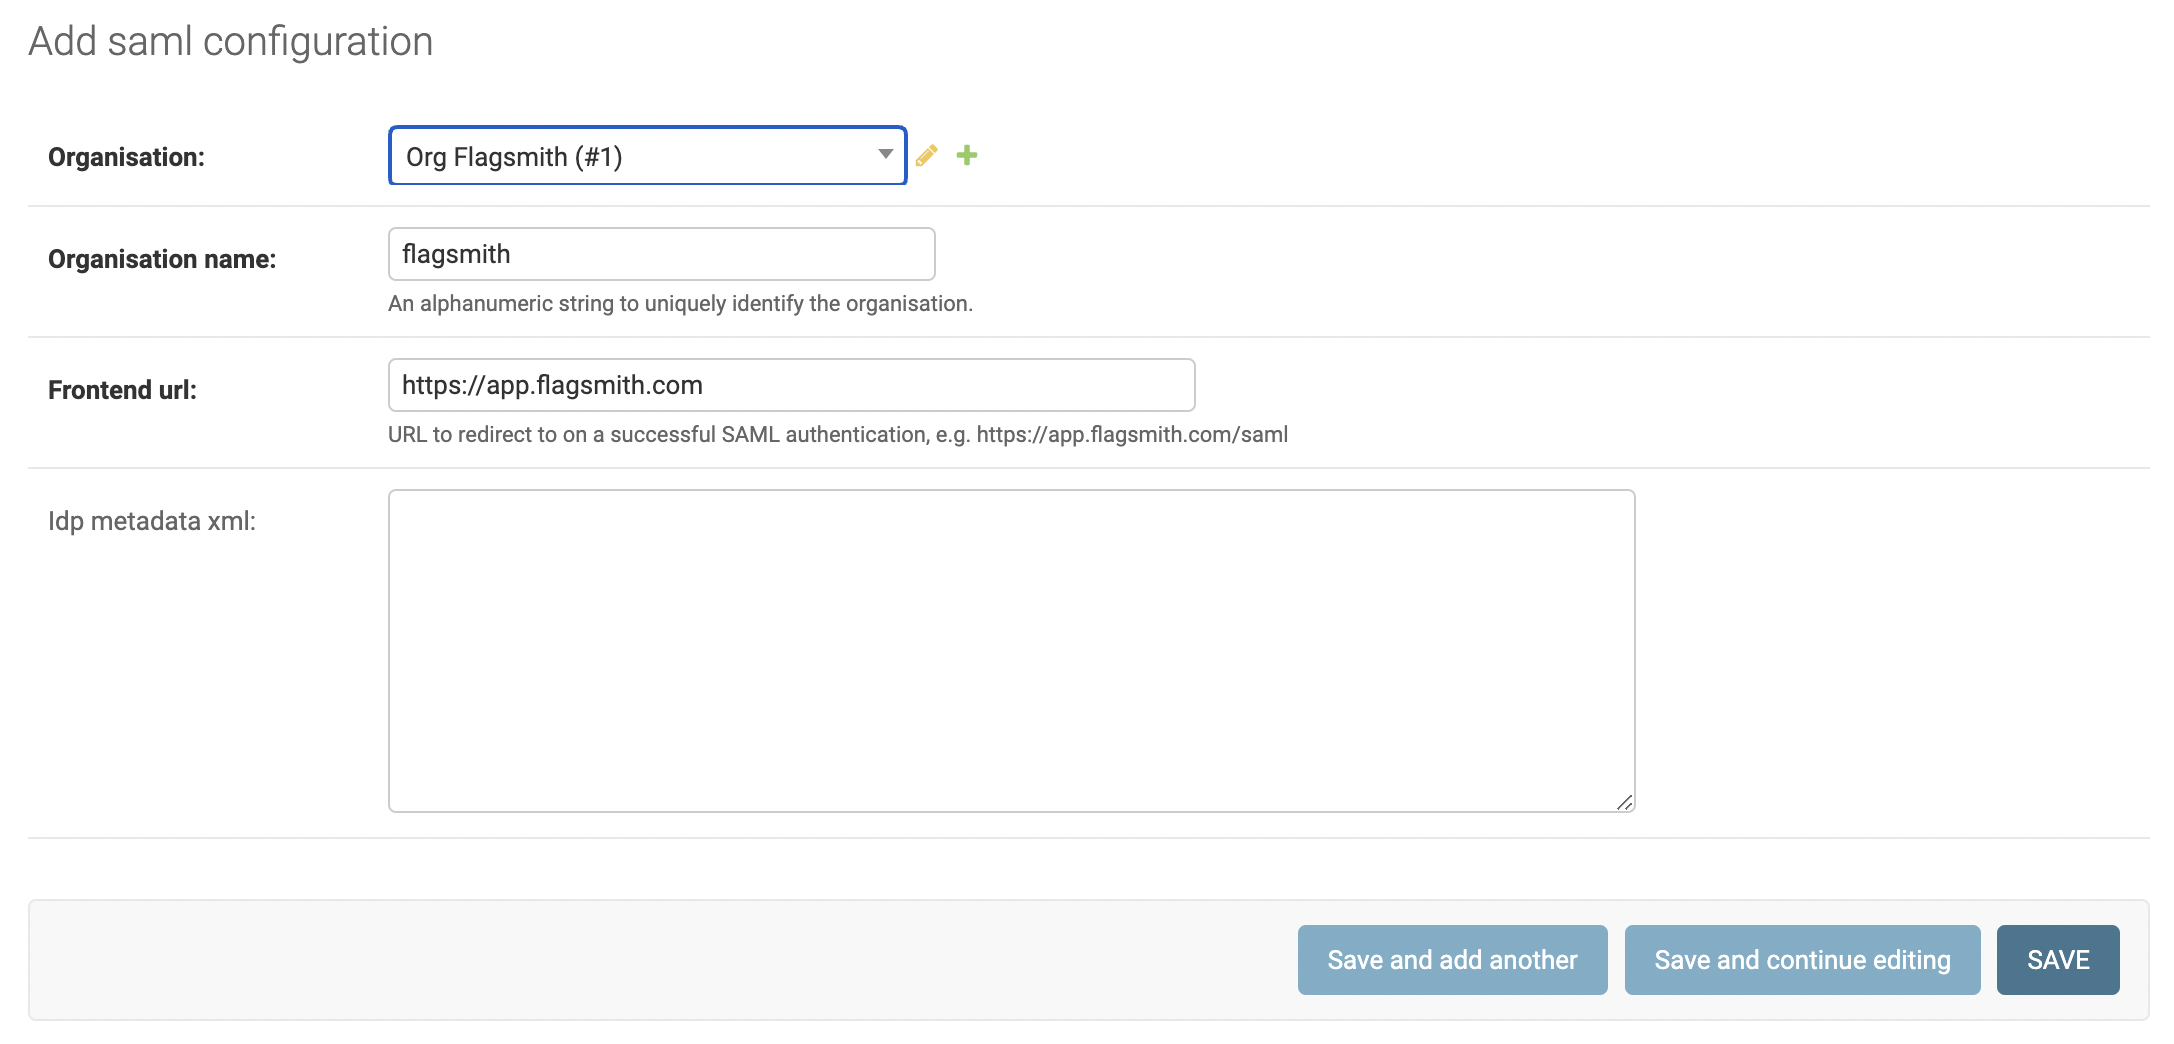
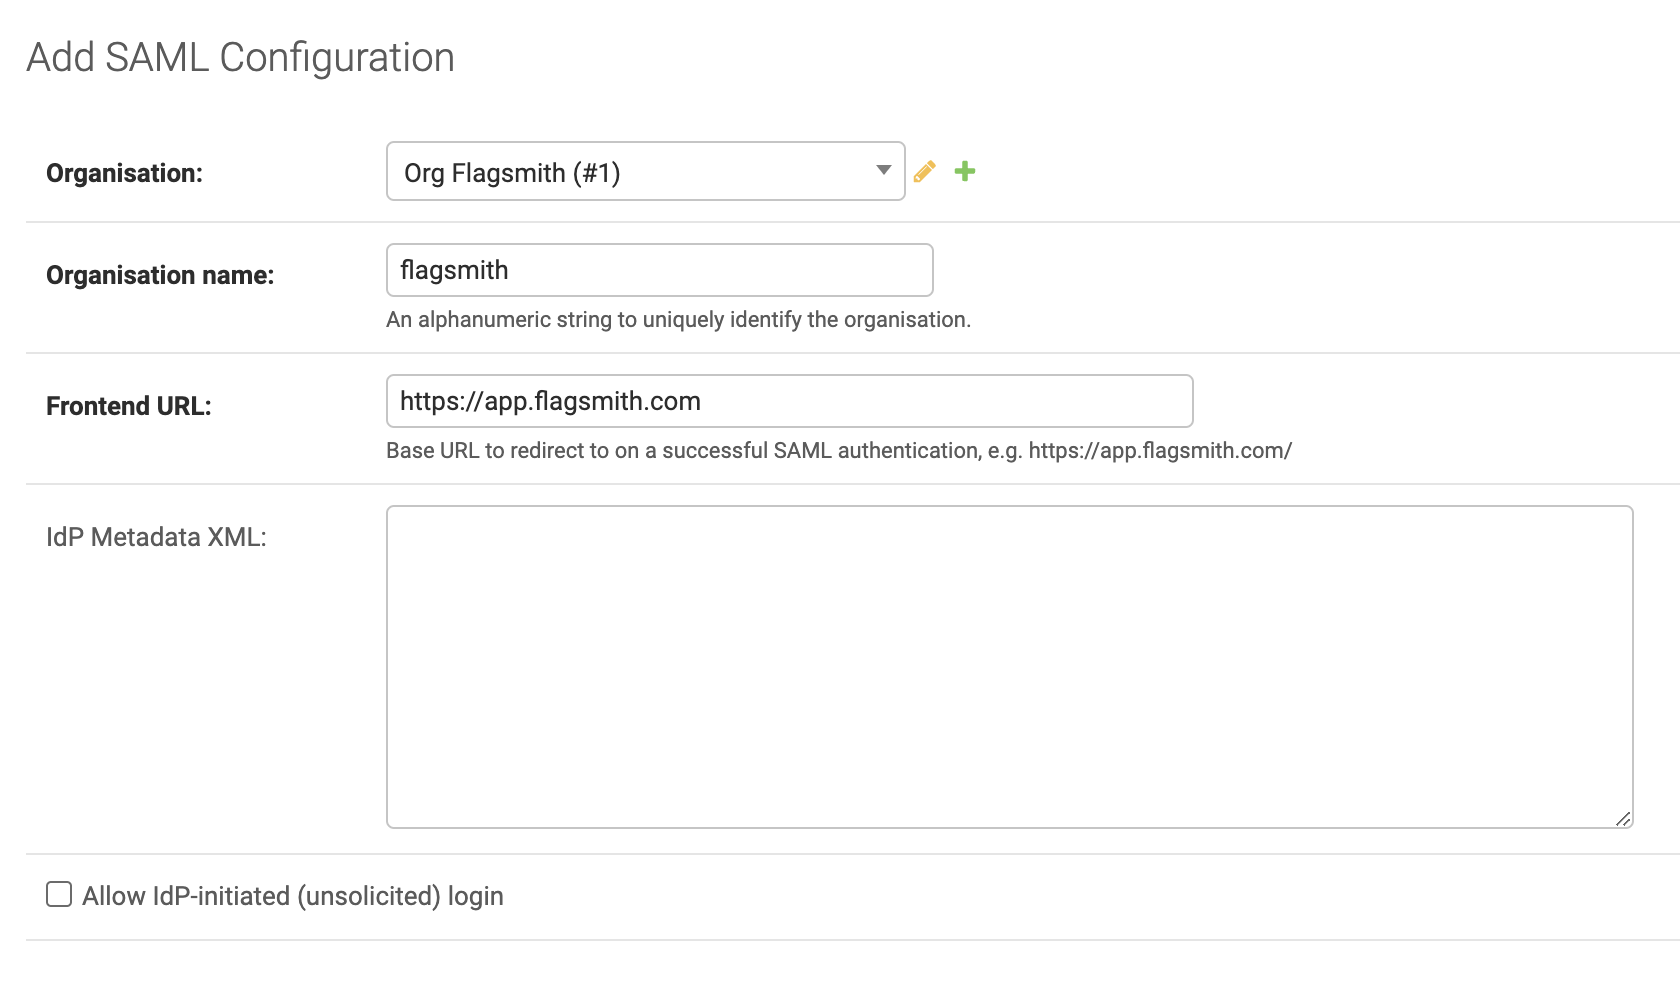
Add IdP initiated documentation

diff --git a/docs/deployment/configuration/authentication.md b/docs/deployment/configuration/authentication.md
@@ -71,6 +71,9 @@ redirected to on a successful SAML authentication.
 
 For now, we'll leave **Idp metadata xml** empty.
 
+If you require the ability to initiate authentication requests from your IdP (IdP initiated), you'll need to check the
+box next to **Allow IdP-initiated (unsolicited) login**.
+
 Once you've completed these fields, hit the **Save** button to create the SAML configuration.
 
 Now, we need to grab the Flagsmith service provider metadata to configure the integration on your IDP. To do this, open
